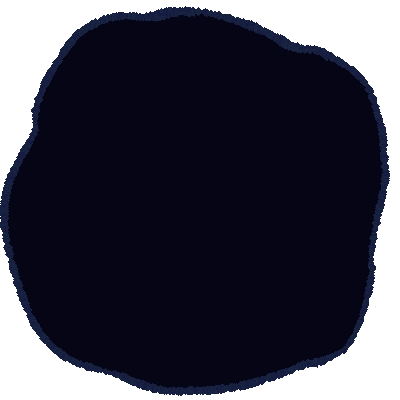
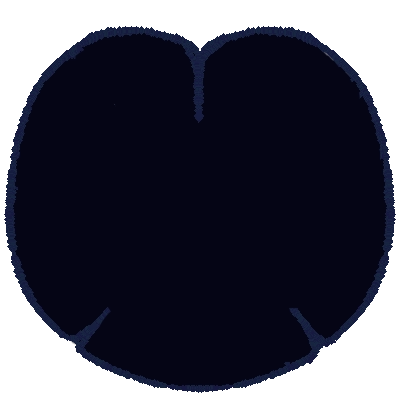
lily pad and frog added

diff --git a/RMITshowcase2025/style.css b/RMITshowcase2025/style.css
@@ -48,10 +48,10 @@ footer {
   transform: scaleY(-1);
 }
 .mirror {
-  animation: animateframe steps(6, jump-none) 625ms 16 30s;
+  animation: animateframe steps(6, jump-none) 625ms 16 15s;
 }
 .fishAnimReverse {
-  animation: curvepath 12s ease-in 30s;
+  animation: curvepath 12s ease-in 15s;
 }
 @keyframes curvepath {
   0% {
@@ -83,6 +83,7 @@ footer {
   background-image: url(boxhead.webp);
   background-size: 100% 100%;
   background-repeat: no-repeat;
+  transform: rotate(5deg);
 }
 .head-bg h2 {
   padding: 40% 2vw;
@@ -91,12 +92,12 @@ footer {
 }
 #head-sound h2,
 #head-video h2 {
-  transform: rotate(-8deg);
+  transform: rotate(-4deg);
 }
 #head-uxui .head-bg,
 #head-3d .head-bg {
   top: -8vh;
-  transform: rotate(8deg);
+  transform: rotate(-9deg);
 }
 
 /* SPACER */

diff --git a/RMITshowcase2025/script.js b/RMITshowcase2025/script.js
@@ -77,12 +77,12 @@ for (let i = 0; i < itemsArray.length; i++) {
 
 //================================================================================
 // Decoration
-// play fish anim every 1.5 min
+// play fish anim every 0.8 min
 const fish = document.querySelector("#fish");
 const fish2 = document.querySelector("#fish2");
 const fishMirrored = document.querySelector("#mirror");
 
-setInterval(fishAnim, 60000);
+setInterval(fishAnim, 50000);
 function fishAnim() {
   fish.classList.remove("fishAnim");
   fish2.classList.remove("fishAnimReverse");
@@ -91,5 +91,5 @@ function fishAnim() {
     fish.classList.add("fishAnim");
     fish2.classList.add("fishAnimReverse");
     fishMirrored.classList.add("mirror");
-  }, 1);
+  }, 10);
 }
